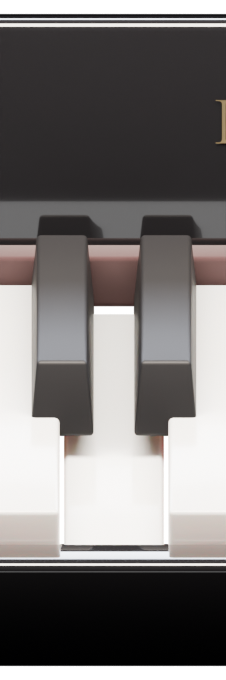
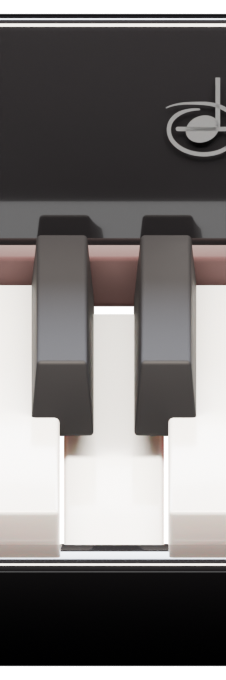
feat(site): brand the site and re-render the keyboard
The mark is printed before the sheet's title like a publisher's device,
and the favicon, touch icon and share card use it. The Blender keyboard
had "Piano Tool" in gold on the fallboard; it now carries the mark and
name in nickel, so the instrument matches the one-blue brand. Key
geometry is unchanged.

diff --git a/site/src/styles/site.css b/site/src/styles/site.css
@@ -55,6 +55,8 @@ body { display: flow-root; background: var(--c-bg); color: var(--c-paper); overf
 .sheet__content { position: relative; flex: 1 0 auto; display: flex; flex-direction: column; }
 .sheet__header { text-align: center; line-height: 1; }
 .sheet__header h1, .sheet__title { font: 500 44px / .95 var(--f-display); letter-spacing: -.01em; }
+/* The brand mark printed before the title, like a publisher's device; sized to the type so the header keeps its height. */
+.sheet__mark { display: inline-block; position: relative; top: .14em; width: 1.2em; height: 1.2em; margin: -.3em .12em -.3em -.3em; }
 .sheet__header > p:not(.sheet__title) { margin-top: 5px; font: 400 13px / 1.3 var(--f-body); }
 .sheet__meta { display: flex; align-items: center; justify-content: space-between; width: var(--score-w); margin: 3px auto 0; font: 400 13px / 1.25 var(--f-body); font-variant-numeric: tabular-nums; }
 .sheet__meta > span:last-child { font: italic 15px / 1 var(--f-display); }

diff --git a/site/design/blender/keyboard.py b/site/design/blender/keyboard.py
@@ -81,6 +81,53 @@ def box(name, x0, x1, y0, y1, z0, z1, mat, bevel=0.0012, origin=None, taper_top=
     return ob
 
 
+def mark_mesh(name, mat, height):
+    """The brand mark as one flat mesh, built from brand/mark.py so the decal and the SVGs
+    share their geometry. Faces in XY, centred on the origin, `height` metres tall."""
+    import importlib.util
+    import re
+    spec = importlib.util.spec_from_file_location('mark', os.path.join(HERE, '..', '..', '..', 'brand', 'mark.py'))
+    mk = importlib.util.module_from_spec(spec)
+    spec.loader.exec_module(mk)
+
+    outlines = []
+    for d in mk.loop_paths():
+        nums = [float(v) for v in re.findall(r'-?\d+\.?\d*', d)]
+        outlines.append(list(zip(nums[0::2], nums[1::2])))
+    cx, cy, rx, ry, tilt = mk.HEAD.values()
+    a = math.radians(tilt)
+    outlines.append([(cx + rx * math.cos(u) * math.cos(a) - ry * math.sin(u) * math.sin(a),
+                      cy + rx * math.cos(u) * math.sin(a) + ry * math.sin(u) * math.cos(a))
+                     for u in (2 * math.pi * i / 48 for i in range(48))])
+    sx, sy, sw, sh = mk.STEM
+    outlines.append([(sx, sy), (sx + sw, sy), (sx + sw, sy + sh), (sx, sy + sh)])
+    x1, x2, ly, lw = mk.LEDGER
+    h = lw / 2
+    cap = [(x2 + h * math.cos(u), ly + h * math.sin(u)) for u in (math.pi * (i / 8 - 0.5) for i in range(9))]
+    outlines.append(cap + [(x1 + h * math.cos(u), ly + h * math.sin(u)) for u in (math.pi * (i / 8 + 0.5) for i in range(9))])
+    for x, y, r in mk.end_caps():
+        outlines.append([(x + r * math.cos(u), y + r * math.sin(u)) for u in (2 * math.pi * i / 16 for i in range(16))])
+
+    pts = [p for o in outlines for p in o]
+    x0, x1b = min(p[0] for p in pts), max(p[0] for p in pts)
+    y0, y1b = min(p[1] for p in pts), max(p[1] for p in pts)
+    s = height / (y1b - y0)
+    mx, my = (x0 + x1b) / 2, (y0 + y1b) / 2
+
+    bm = bmesh.new()
+    for o in outlines:
+        verts = [bm.verts.new(((x - mx) * s, -(y - my) * s, 0.0)) for x, y in o]
+        bm.faces.new(verts)
+    me = bpy.data.meshes.new(name)
+    bm.to_mesh(me)
+    bm.free()
+    me.materials.append(mat)
+    ob = bpy.data.objects.new(name, me)
+    bpy.context.scene.collection.objects.link(ob)
+    bpy.context.view_layer.update()
+    return ob
+
+
 def build():
     scene = bpy.context.scene
     for ob in list(bpy.data.objects):
@@ -90,7 +137,8 @@ def build():
     ebony = material('key_black', (0.006, 0.006, 0.007), 0.55, **{'Specular IOR Level': 0.12})
     lacquer = material('lacquer', (0.006, 0.006, 0.007), 0.06, **{'Coat Weight': 1.0, 'Coat Roughness': 0.02})
     felt = material('felt', (0.022, 0.0025, 0.0035), 1.0, **{'Sheen Weight': 0.3})
-    gold = material('decal_gold', (0.80, 0.60, 0.30), 0.28, **{'Metallic': 1.0})
+    # Nickel, not gold: the brand is ink, paper and one blue (brand/README.md).
+    nickel = material('decal_nickel', (0.72, 0.74, 0.77), 0.3, **{'Metallic': 1.0})
 
     for m in range(LOWEST, HIGHEST + 1):
         if is_black(m):
@@ -124,12 +172,24 @@ def build():
     cu.size = 0.019
     cu.space_character = 1.06
     decal = bpy.data.objects.new('decal', cu)
-    decal.data.materials.append(gold)
+    decal.data.materials.append(nickel)
+    scene.collection.objects.link(decal)
+    bpy.context.view_layer.update()
+
+    # The maker's lockup: the brand mark, then the name, centred together.
+    mark = mark_mesh('decal_mark', nickel, height=cu.size * 0.94)
+    gap = cu.size * 0.3
+    lockup = mark.dimensions.x + gap + decal.dimensions.x
     t = math.radians(BOARD_TILT)
     zc = 0.043
-    decal.location = (SPAN / 2, WHITE_L + 0.0098 + zc * math.sin(t) - 0.0004 * math.cos(t), -0.010 + zc * math.cos(t) + 0.0004 * math.sin(t))
-    decal.rotation_euler.x = math.radians(90 - BOARD_TILT)
-    scene.collection.objects.link(decal)
+    y = WHITE_L + 0.0098 + zc * math.sin(t) - 0.0004 * math.cos(t)
+    z = -0.010 + zc * math.cos(t) + 0.0004 * math.sin(t)
+    left = SPAN / 2 - lockup / 2
+    decal.location = (left + mark.dimensions.x + gap + decal.dimensions.x / 2, y, z)
+    # The mark's origin is its visual centre; lift it a touch so the notehead sits on the baseline.
+    mark.location = (left + mark.dimensions.x / 2, y - 0.0012 * math.sin(t), z + 0.0012 * math.cos(t))
+    for ob in (decal, mark):
+        ob.rotation_euler.x = math.radians(90 - BOARD_TILT)
 
     # Light: a soft warm key from above the player's head, a cool rim behind, a dark room.
     def area(name, loc, rot, size, energy, color, shape='RECTANGLE', size_y=None):

diff --git a/site/DESIGN.md b/site/DESIGN.md
@@ -205,6 +205,7 @@ Motion values live in `src/motion/params.ts`.
 | A4b | inline | E4 marks and the F4 beat line are drawn from the app's glyph rules and timing windows in `src/components/drawings/`, with the A3 pencil vocabulary | done |
 | A5 | blender | paper grain tile, `src/assets/desk/paper.png`, 512 px, tileable | done |
 | A6 | blender | music rack frame with its ledge, two page clips, and the pencil on the ledge: `rack.png`, `clip.png`, `pencil.png` from `design/blender/desk-props.blend` (Cycles) | done |
+| A7 | brand | the mark (middle C circled in pencil) printed before the title like a publisher's device, the favicon, touch icon and `og.jpg`, all from `brand/mark.py`; see `brand/README.md` | done |
 
 ## Copy
 
